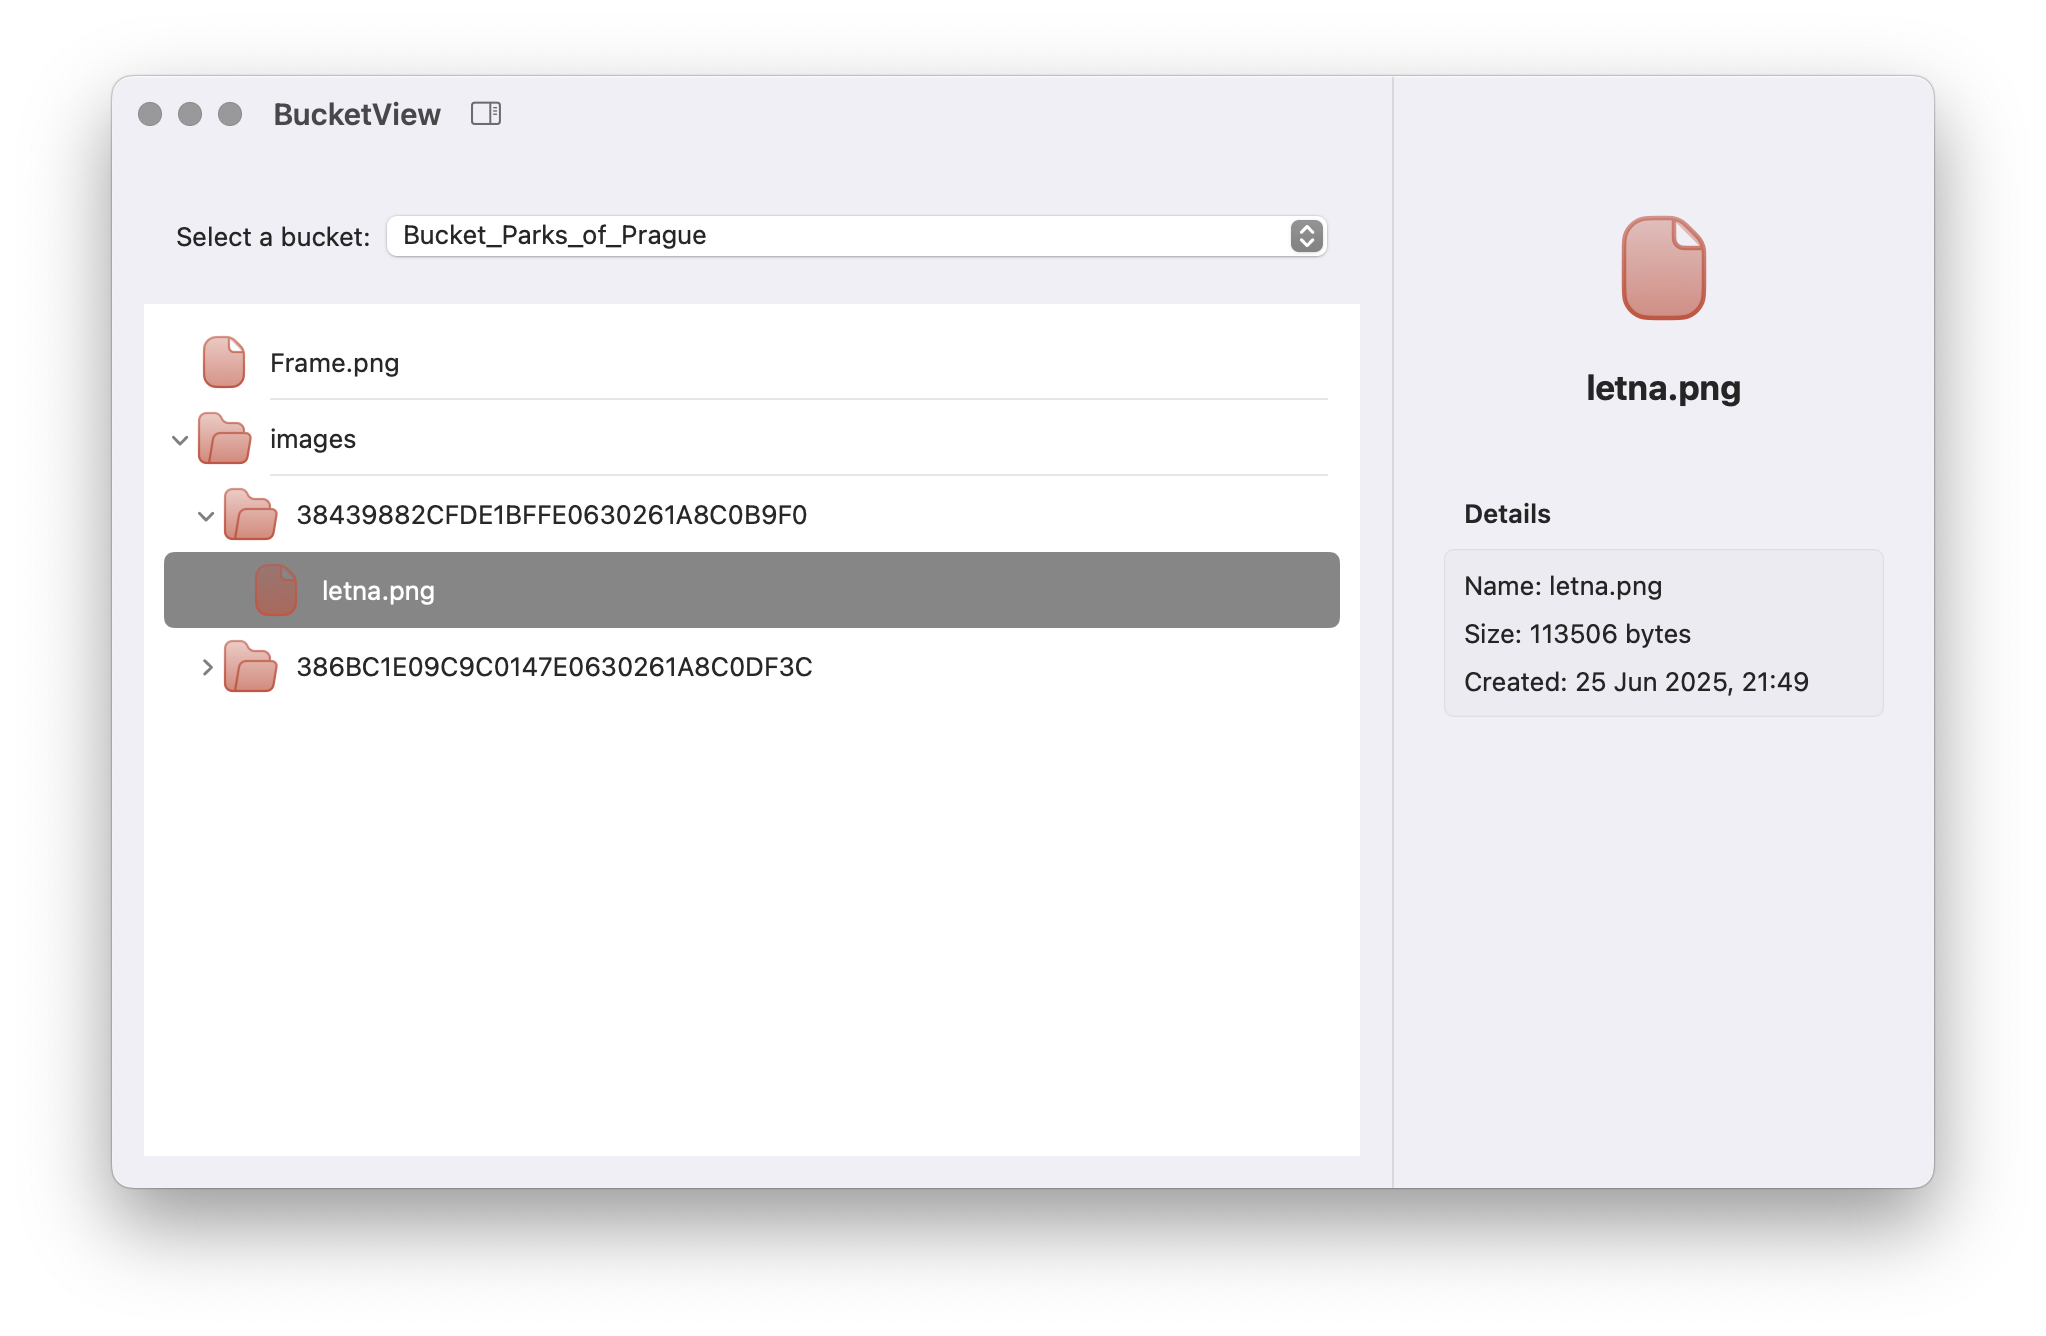
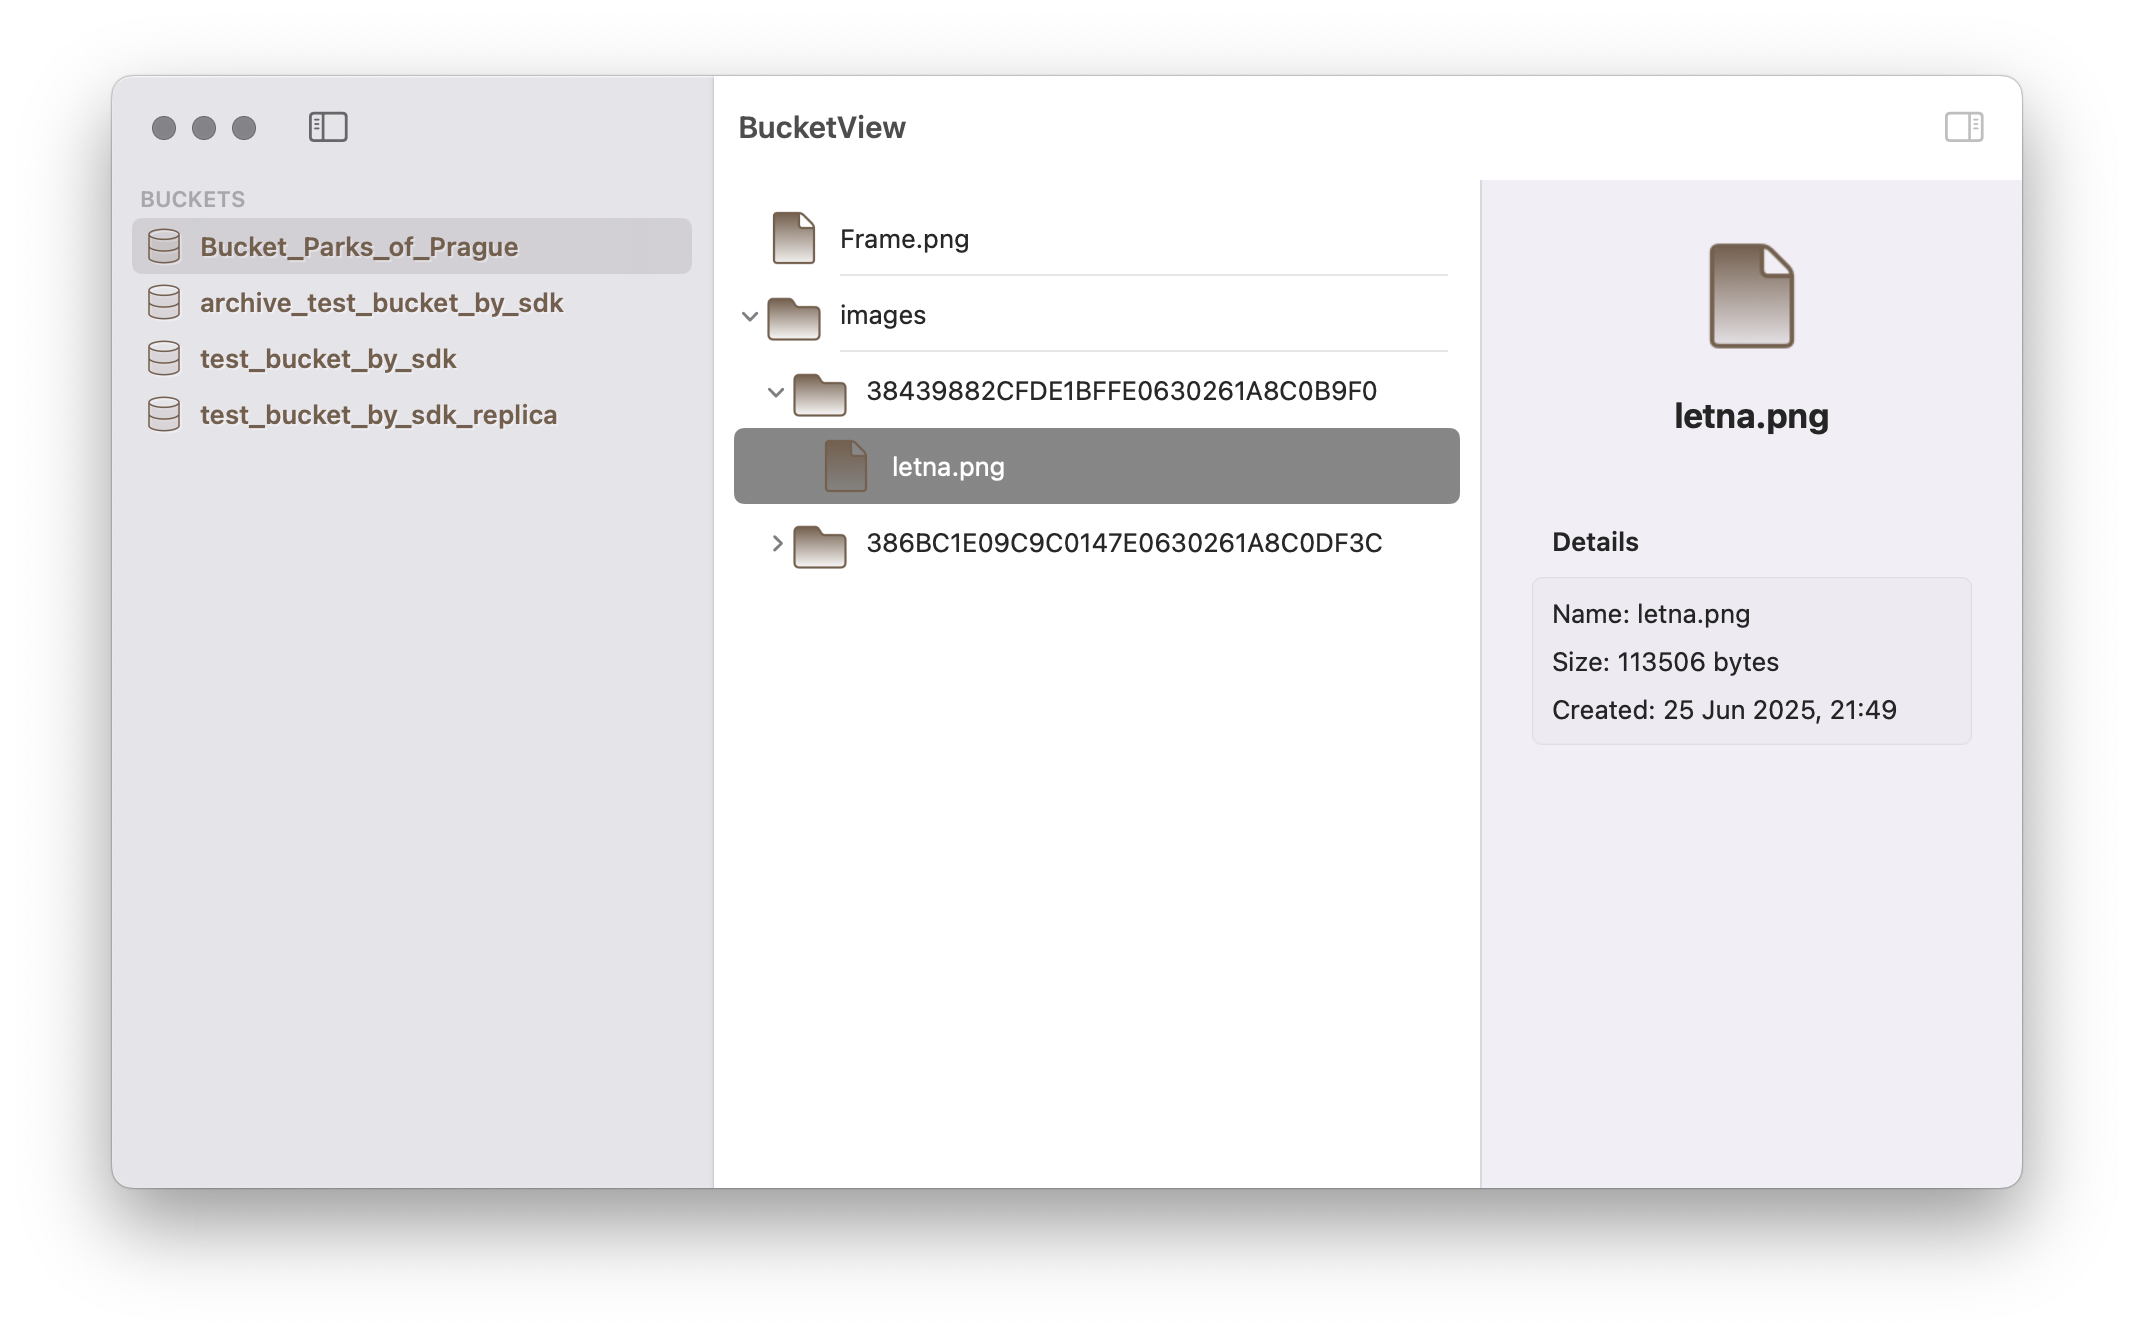
README.md was updated with the new UI.

diff --git a/BucketView/README.md b/BucketView/README.md
@@ -11,6 +11,11 @@
   <img src="./img/Settings.png" alt="BucketView Settings" width="40%">
 </p>
 
+<p align="center">
+  <img src="./img/BucketViewDark.png" alt="BucketView UI" width="55%">
+  <img src="./img/SettingsDark.png" alt="BucketView Settings" width="40%">
+</p>
+
 ---
 
 ## Setup Instructions